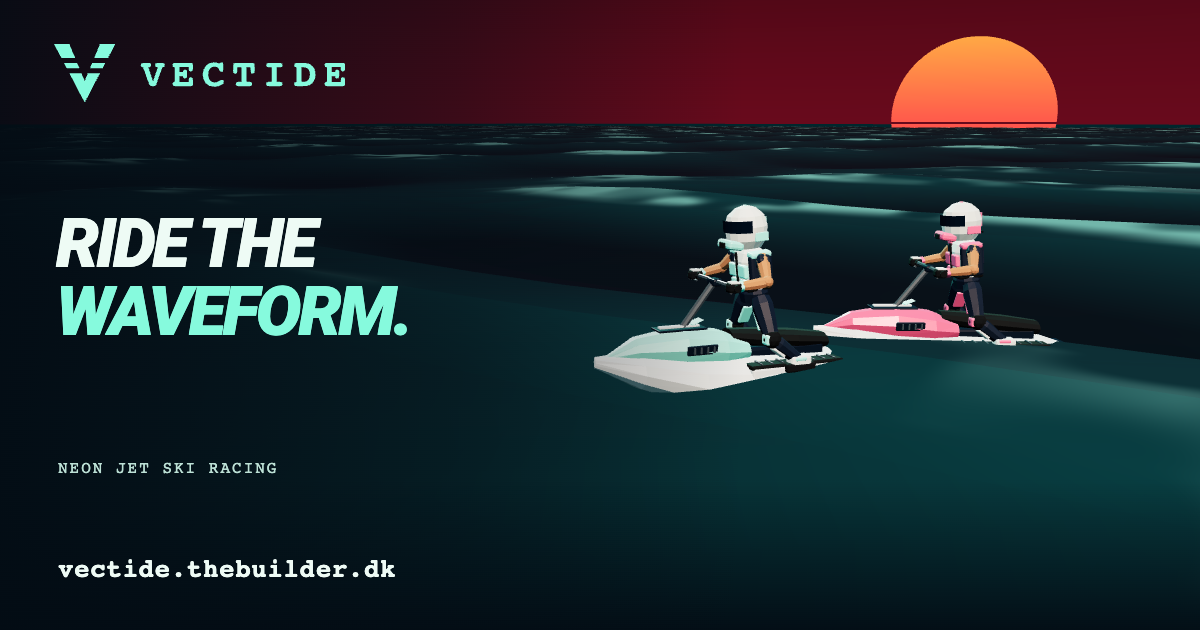
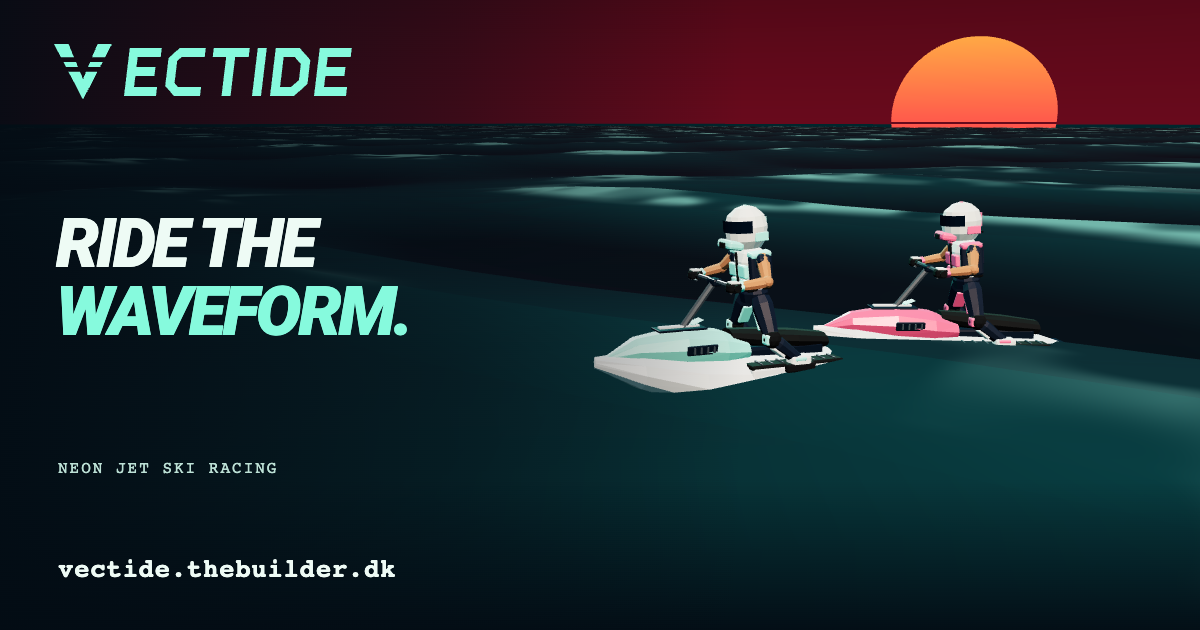
Unify emblem and angular lettering into a single wordmark

Changed region(s): [[0.0617, 0.0603, 0.3083, 0.1508]]

diff --git a/src/main.ts b/src/main.ts
@@ -22,7 +22,7 @@ const app = document.querySelector<HTMLDivElement>('#app')!;
 app.innerHTML = `
 <canvas id="ocean" aria-label="Vectide 3D jet ski racing game"></canvas>
 <div class="screen-grain" aria-hidden="true"></div>
-<header class="masthead"><a class="wordmark" href="/" aria-label="Vectide home"><img src="/logo.svg" width="142" height="28" alt=""/><span class="version">/ 01</span></a><div class="header-right"><span id="header-label">WATER RACING SYSTEM</span><button id="sound" class="quiet" aria-pressed="false" aria-label="Enable engine sound"><svg class="speaker-icon" viewBox="0 0 24 24" fill="none" stroke="currentColor" stroke-width="1.8" aria-hidden="true"><path d="M11 4 5 9H2v6h3l6 5Z"/><path class="speaker-waves" d="M15 8a6 6 0 0 1 0 8m3-11a10 10 0 0 1 0 14"/><path class="speaker-muted" d="m15 9 6 6m0-6-6 6"/></svg><span id="sound-label">SOUND OFF</span></button><button id="pause" class="quiet" aria-label="Pause" title="Pause (Esc)" hidden><svg viewBox="0 0 24 24" fill="currentColor" aria-hidden="true"><path d="M6 4h4v16H6zm8 0h4v16h-4z"/></svg></button></div></header>
+<header class="masthead"><a class="wordmark" href="/" aria-label="Vectide home"><img src="/logo.svg" width="150" height="28" alt=""/><span class="version">/ 01</span></a><div class="header-right"><span id="header-label">WATER RACING SYSTEM</span><button id="sound" class="quiet" aria-pressed="false" aria-label="Enable engine sound"><svg class="speaker-icon" viewBox="0 0 24 24" fill="none" stroke="currentColor" stroke-width="1.8" aria-hidden="true"><path d="M11 4 5 9H2v6h3l6 5Z"/><path class="speaker-waves" d="M15 8a6 6 0 0 1 0 8m3-11a10 10 0 0 1 0 14"/><path class="speaker-muted" d="m15 9 6 6m0-6-6 6"/></svg><span id="sound-label">SOUND OFF</span></button><button id="pause" class="quiet" aria-label="Pause" title="Pause (Esc)" hidden><svg viewBox="0 0 24 24" fill="currentColor" aria-hidden="true"><path d="M6 4h4v16H6zm8 0h4v16h-4z"/></svg></button></div></header>
 <main id="menu">
   <div id="menu-panels">
   <section id="menu-home" class="menu-screen is-active" aria-label="Main menu">

diff --git a/e2e/setup.spec.ts b/e2e/setup.spec.ts
@@ -112,19 +112,19 @@ test('logo keeps its desktop size and only appears on the mobile title', async (
   const logo = page.locator('.wordmark');
   const artwork = logo.locator('img');
   await artwork.evaluate((image: HTMLImageElement) => image.decode());
-  await expect(artwork).toHaveCSS('width', '142px');
+  await expect(artwork).toHaveCSS('width', '150px');
   await expect(artwork).toHaveCSS('height', '28px');
   await page.locator('#open-setup').click();
-  await expect(artwork).toHaveCSS('width', '142px');
+  await expect(artwork).toHaveCSS('width', '150px');
   await page.locator('#start').click();
-  await expect(artwork).toHaveCSS('width', '142px');
+  await expect(artwork).toHaveCSS('width', '150px');
   await page.keyboard.press('Escape');
   await page.locator('#exit').click();
   await page.setViewportSize({ width: 375, height: 667 });
   await expect(logo).toBeHidden();
   await page.locator('#setup-back').click();
   await expect(logo).toBeVisible();
-  await expect(artwork).toHaveCSS('width', '142px');
+  await expect(artwork).toHaveCSS('width', '150px');
   await page.locator('#open-setup').click();
   await expect(logo).toBeHidden();
   await page.locator('#start').click();

diff --git a/src/style.css b/src/style.css
@@ -101,7 +101,7 @@ button:hover {
 }
 .wordmark img {
   display: block;
-  width: 142px;
+  width: 150px;
   height: 28px;
 }
 .version {
